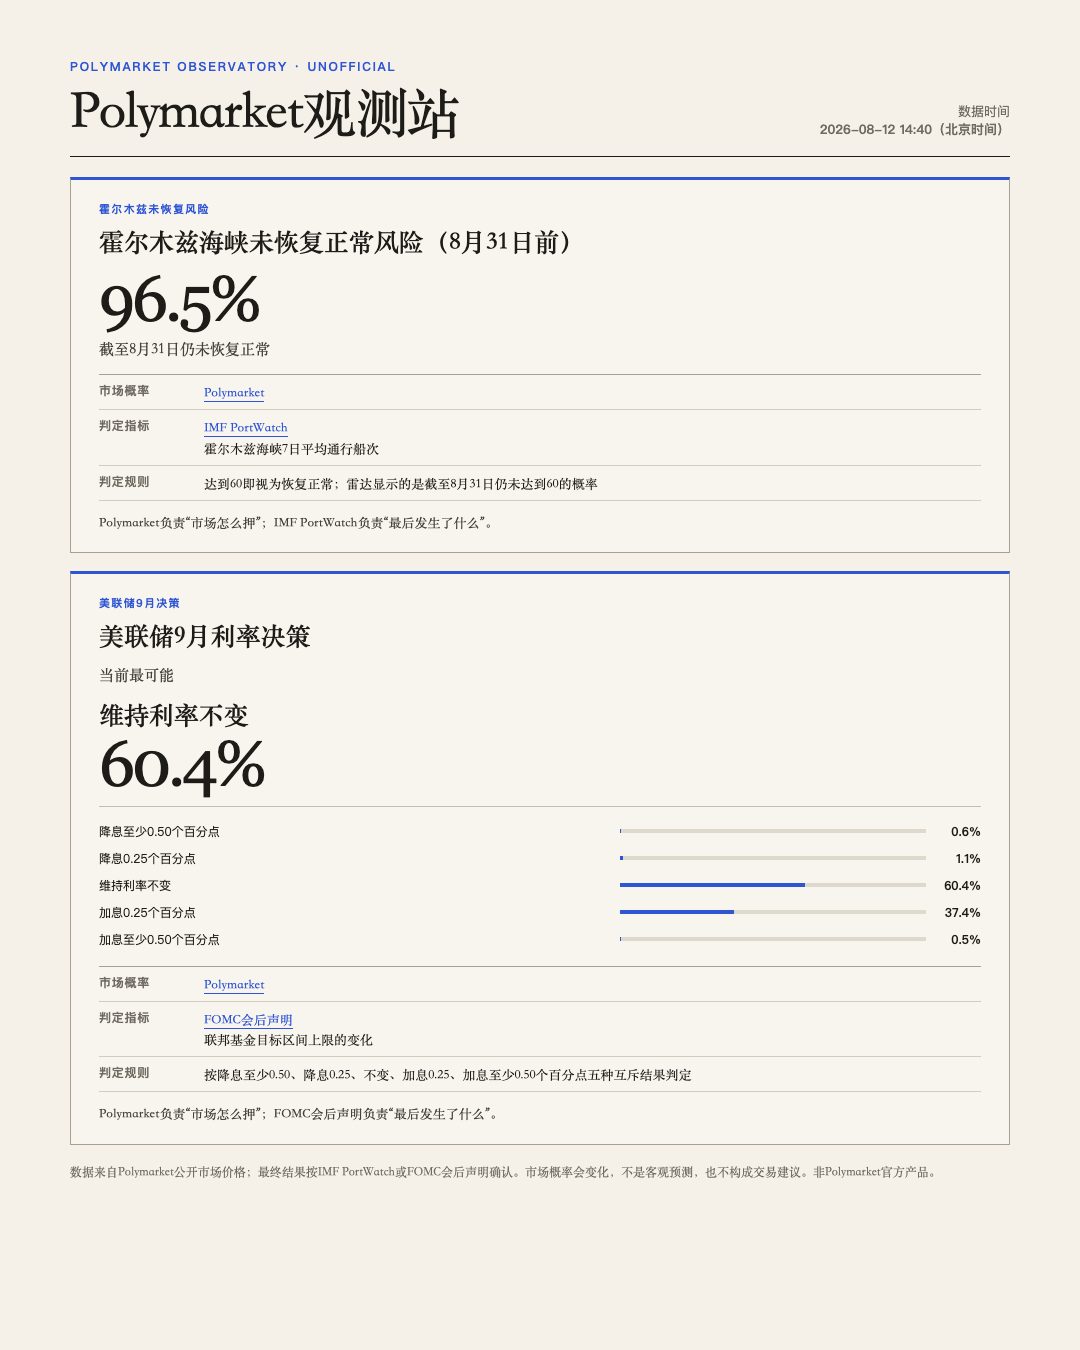
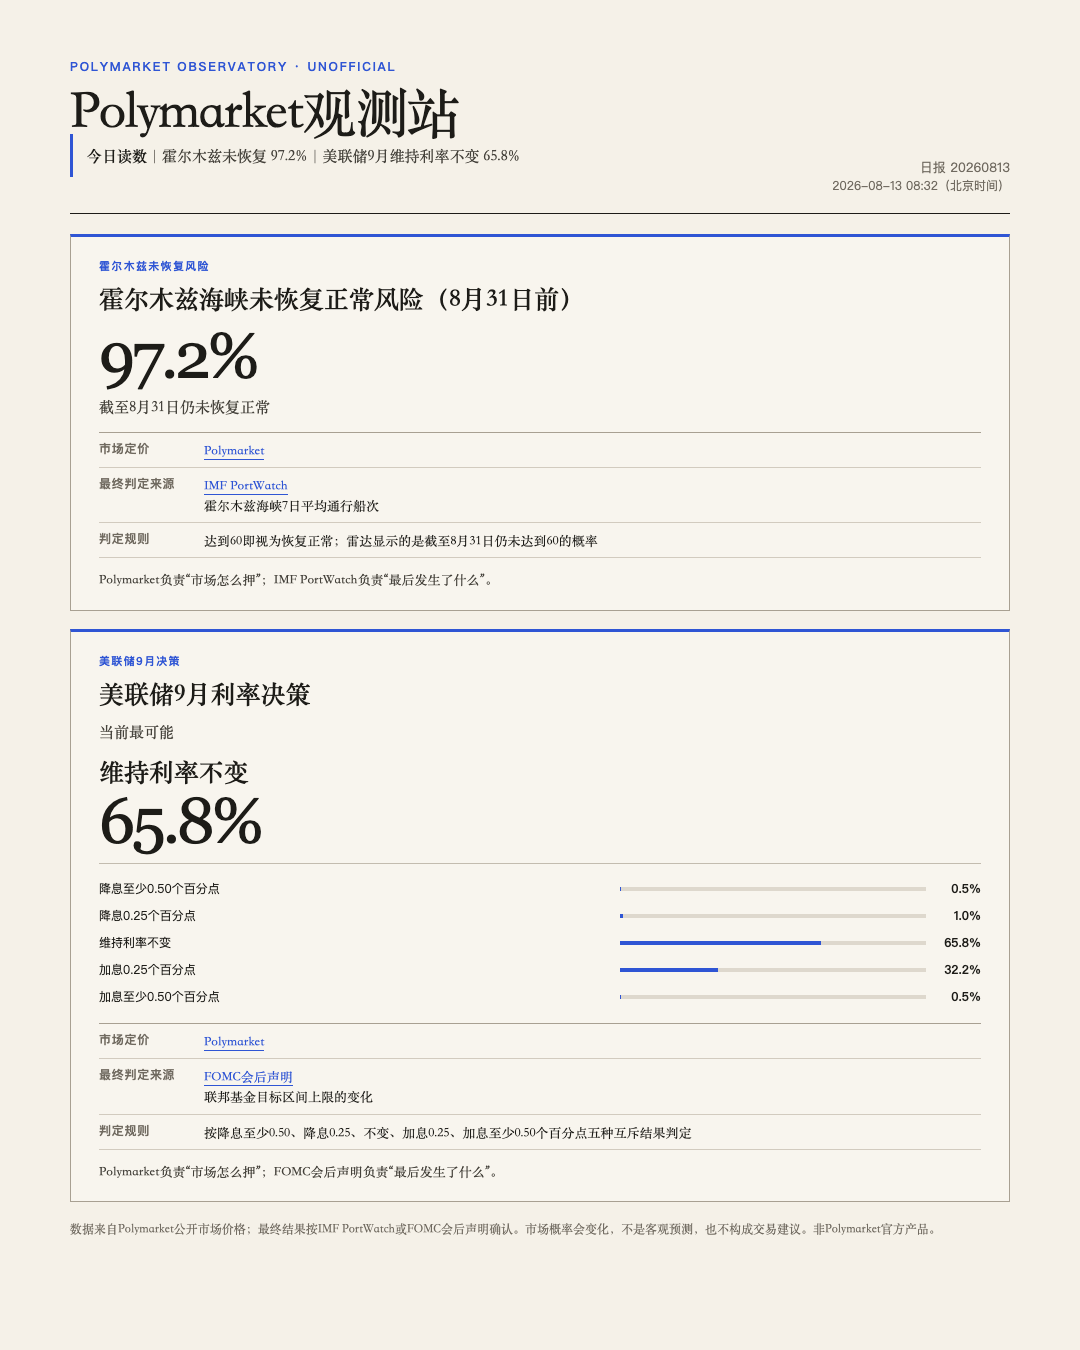
Refresh event radar daily snapshot

diff --git a/source/event-radar/index.html b/source/event-radar/index.html
@@ -16,7 +16,11 @@ permalink: /event-radar/
 .radar-head{align-items:end;border-bottom:1px solid #1d1c18;display:flex;gap:28px;justify-content:space-between;margin-bottom:28px;padding-bottom:18px;}
 .radar-kicker{color:#2f55d4;font-size:12px;font-weight:900;letter-spacing:.15em;margin:0 0 9px;text-transform:uppercase;}
 .radar-head h1{font-family:"Libre Caslon Display","Noto Serif SC",serif;font-size:clamp(37px,5vw,58px);font-weight:400;letter-spacing:-.035em;line-height:1;margin:0;}
-.radar-time{color:#706a60;font-size:13px;margin:0;text-align:right;}
+.radar-time{color:#706a60;font-size:13px;line-height:1.45;margin:0;text-align:right;}
+.radar-time strong{color:#1d1c18;font-size:14px;letter-spacing:.04em;}
+.radar-time small{font-size:12px;}
+.radar-summary{border-left:3px solid #2f55d4;color:#45423b;font-family:"Noto Serif SC",serif;font-size:16px;line-height:1.55;margin:0 0 24px;padding:10px 14px;}
+.radar-summary strong{color:#1d1c18;font-weight:700;}
 .radar-grid{display:grid;gap:22px;grid-template-columns:repeat(2,minmax(0,1fr));}
 .radar-event{background:rgba(255,255,255,.28);border:1px solid #a8a092;border-top:3px solid #2f55d4;padding:26px 28px 24px;}
 .radar-eyebrow{color:#2f55d4;font-size:11px;font-weight:900;letter-spacing:.12em;margin:0 0 8px;text-transform:uppercase;}
@@ -44,10 +48,10 @@ permalink: /event-radar/
 </style>
 <main class="radar-shell" aria-labelledby="radar-title">
   <header class="radar-head">
-    <div><p class="radar-kicker">Polymarket Observatory · Unofficial</p><h1 id="radar-title">Polymarket观测站</h1></div>
-    <p class="radar-time">数据时间<br><strong>2026-08-12 14:40（北京时间）</strong></p>
+    <div><p class="radar-kicker">Polymarket Observatory · Unofficial</p><h1 id="radar-title">Polymarket观测站</h1><p class="radar-summary"><strong>今日读数</strong>｜霍尔木兹未恢复 97.2%｜美联储9月维持利率不变 65.8%</p></div>
+    <p class="radar-time">日报 20260813<br><small>2026-08-13 08:32（北京时间）</small></p>
   </header>
-  <div class="radar-grid"><article class="radar-event"><p class="radar-eyebrow">霍尔木兹未恢复风险</p><h2>霍尔木兹海峡未恢复正常风险（8月31日前）</h2><p class="radar-number">96.5%</p><p class="radar-question">截至8月31日仍未恢复正常</p><dl class="radar-method"><div><dt>市场概率</dt><dd><a href="https://polymarket.com/event/strait-of-hormuz-traffic-returns-to-normal-by-august-31-20260702154212320" target="_blank" rel="noopener">Polymarket</a></dd></div><div><dt>判定指标</dt><dd><a href="https://portwatch.imf.org/pages/cb5856222a5b4105adc6ee7e880a1730" target="_blank" rel="noopener">IMF PortWatch</a><br>霍尔木兹海峡7日平均通行船次</dd></div><div><dt>判定规则</dt><dd>达到60即视为恢复正常；雷达显示的是截至8月31日仍未达到60的概率</dd></div></dl><p class="radar-explainer">Polymarket负责“市场怎么押”；IMF PortWatch负责“最后发生了什么”。</p></article><article class="radar-event"><p class="radar-eyebrow">美联储9月决策</p><h2>美联储9月利率决策</h2><p class="radar-question">当前最可能</p><p class="radar-leader">维持利率不变</p><p class="radar-number">60.4%</p><ol class="radar-outcomes" aria-label="五个互斥结果，合计100%"><li><span>降息至少0.50个百分点</span><span class="radar-outcome-track" aria-hidden="true"><span style="width:0.6%"></span></span><strong>0.6%</strong></li><li><span>降息0.25个百分点</span><span class="radar-outcome-track" aria-hidden="true"><span style="width:1.1%"></span></span><strong>1.1%</strong></li><li><span>维持利率不变</span><span class="radar-outcome-track" aria-hidden="true"><span style="width:60.4%"></span></span><strong>60.4%</strong></li><li><span>加息0.25个百分点</span><span class="radar-outcome-track" aria-hidden="true"><span style="width:37.4%"></span></span><strong>37.4%</strong></li><li><span>加息至少0.50个百分点</span><span class="radar-outcome-track" aria-hidden="true"><span style="width:0.5%"></span></span><strong>0.5%</strong></li></ol><dl class="radar-method"><div><dt>市场概率</dt><dd><a href="https://polymarket.com/event/fed-decision-in-september-762" target="_blank" rel="noopener">Polymarket</a></dd></div><div><dt>判定指标</dt><dd><a href="https://www.federalreserve.gov/monetarypolicy/fomccalendars.htm" target="_blank" rel="noopener">FOMC会后声明</a><br>联邦基金目标区间上限的变化</dd></div><div><dt>判定规则</dt><dd>按降息至少0.50、降息0.25、不变、加息0.25、加息至少0.50个百分点五种互斥结果判定</dd></div></dl><p class="radar-explainer">Polymarket负责“市场怎么押”；FOMC会后声明负责“最后发生了什么”。</p></article></div>
+  <div class="radar-grid"><article class="radar-event"><p class="radar-eyebrow">霍尔木兹未恢复风险</p><h2>霍尔木兹海峡未恢复正常风险（8月31日前）</h2><p class="radar-number">97.2%</p><p class="radar-question">截至8月31日仍未恢复正常</p><dl class="radar-method"><div><dt>市场定价</dt><dd><a href="https://polymarket.com/event/strait-of-hormuz-traffic-returns-to-normal-by-august-31-20260702154212320" target="_blank" rel="noopener">Polymarket</a></dd></div><div><dt>最终判定来源</dt><dd><a href="https://portwatch.imf.org/pages/cb5856222a5b4105adc6ee7e880a1730" target="_blank" rel="noopener">IMF PortWatch</a><br>霍尔木兹海峡7日平均通行船次</dd></div><div><dt>判定规则</dt><dd>达到60即视为恢复正常；雷达显示的是截至8月31日仍未达到60的概率</dd></div></dl><p class="radar-explainer">Polymarket负责“市场怎么押”；IMF PortWatch负责“最后发生了什么”。</p></article><article class="radar-event"><p class="radar-eyebrow">美联储9月决策</p><h2>美联储9月利率决策</h2><p class="radar-question">当前最可能</p><p class="radar-leader">维持利率不变</p><p class="radar-number">65.8%</p><ol class="radar-outcomes" aria-label="五个互斥结果，合计100%"><li><span>降息至少0.50个百分点</span><span class="radar-outcome-track" aria-hidden="true"><span style="width:0.5%"></span></span><strong>0.5%</strong></li><li><span>降息0.25个百分点</span><span class="radar-outcome-track" aria-hidden="true"><span style="width:1.0%"></span></span><strong>1.0%</strong></li><li><span>维持利率不变</span><span class="radar-outcome-track" aria-hidden="true"><span style="width:65.8%"></span></span><strong>65.8%</strong></li><li><span>加息0.25个百分点</span><span class="radar-outcome-track" aria-hidden="true"><span style="width:32.2%"></span></span><strong>32.2%</strong></li><li><span>加息至少0.50个百分点</span><span class="radar-outcome-track" aria-hidden="true"><span style="width:0.5%"></span></span><strong>0.5%</strong></li></ol><dl class="radar-method"><div><dt>市场定价</dt><dd><a href="https://polymarket.com/event/fed-decision-in-september-762" target="_blank" rel="noopener">Polymarket</a></dd></div><div><dt>最终判定来源</dt><dd><a href="https://www.federalreserve.gov/monetarypolicy/fomccalendars.htm" target="_blank" rel="noopener">FOMC会后声明</a><br>联邦基金目标区间上限的变化</dd></div><div><dt>判定规则</dt><dd>按降息至少0.50、降息0.25、不变、加息0.25、加息至少0.50个百分点五种互斥结果判定</dd></div></dl><p class="radar-explainer">Polymarket负责“市场怎么押”；FOMC会后声明负责“最后发生了什么”。</p></article></div>
 
   <div class="radar-actions" aria-label="分享选项">
     <button class="radar-action" type="button" data-radar-share>分享页面</button>
@@ -59,7 +63,7 @@ permalink: /event-radar/
 </main>
 <script>
 (() => {
-  const text = "Polymarket观测站｜2026-08-12 14:40（北京时间）\n霍尔木兹：截至8月31日仍未恢复正常 96.5%\n美联储9月：降息至少0.50个百分点 0.6%；降息0.25个百分点 1.1%；维持利率不变 60.4%；加息0.25个百分点 37.4%；加息至少0.50个百分点 0.5%\n概率来自Polymarket；最终结果按各事件的独立判定指标确认。\n仅反映市场当时预期，不构成交易建议。\n非Polymarket官方产品。\nhttps://terazadl.github.io/event-radar/";
+  const text = "Polymarket观测站｜日报 20260813\n今日读数：\n霍尔木兹：截至8月31日仍未恢复正常 97.2%\n美联储9月：维持利率不变 65.8%\n五个互斥结果：降息至少0.50个百分点 0.5%；降息0.25个百分点 1.0%；维持利率不变 65.8%；加息0.25个百分点 32.2%；加息至少0.50个百分点 0.5%\n概率来自Polymarket；最终结果按各事件的独立判定指标确认。\n仅反映市场当时预期，不构成交易建议。\n非Polymarket官方产品。\nhttps://terazadl.github.io/event-radar/";
   const title = "Polymarket观测站｜霍尔木兹与美联储";
   const status = document.querySelector('.radar-status');
   const setStatus = value => { if (status) status.textContent = value; };
